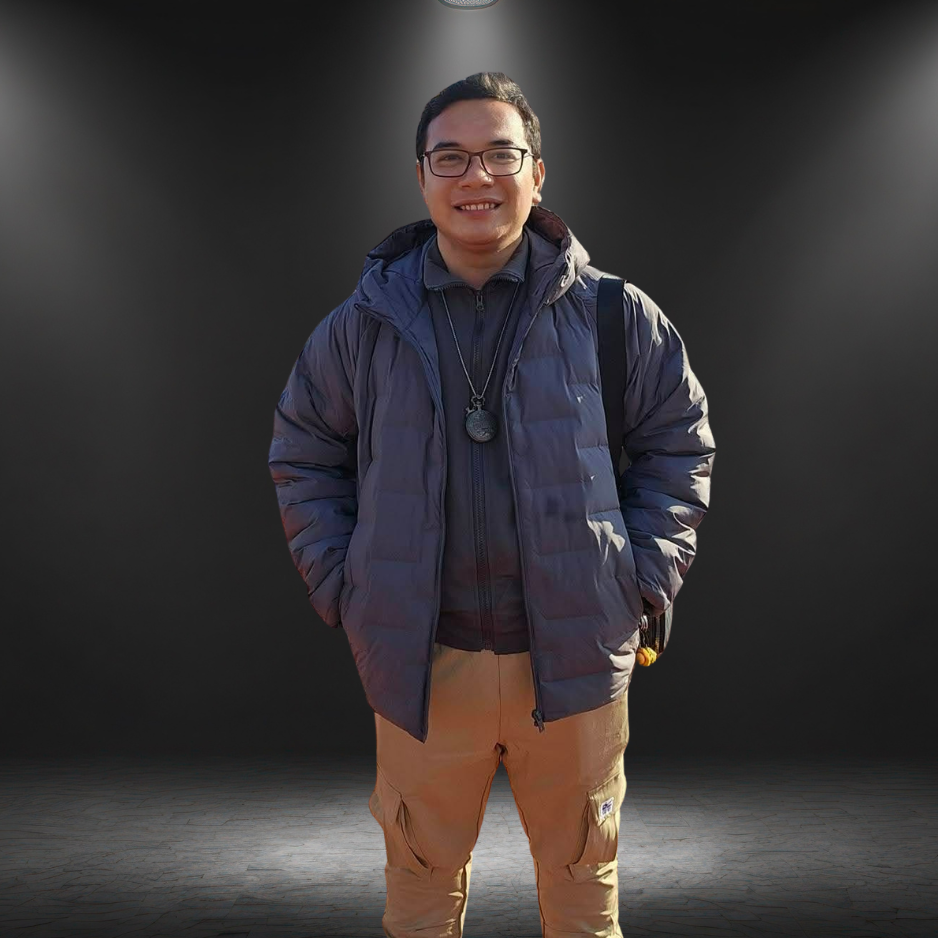
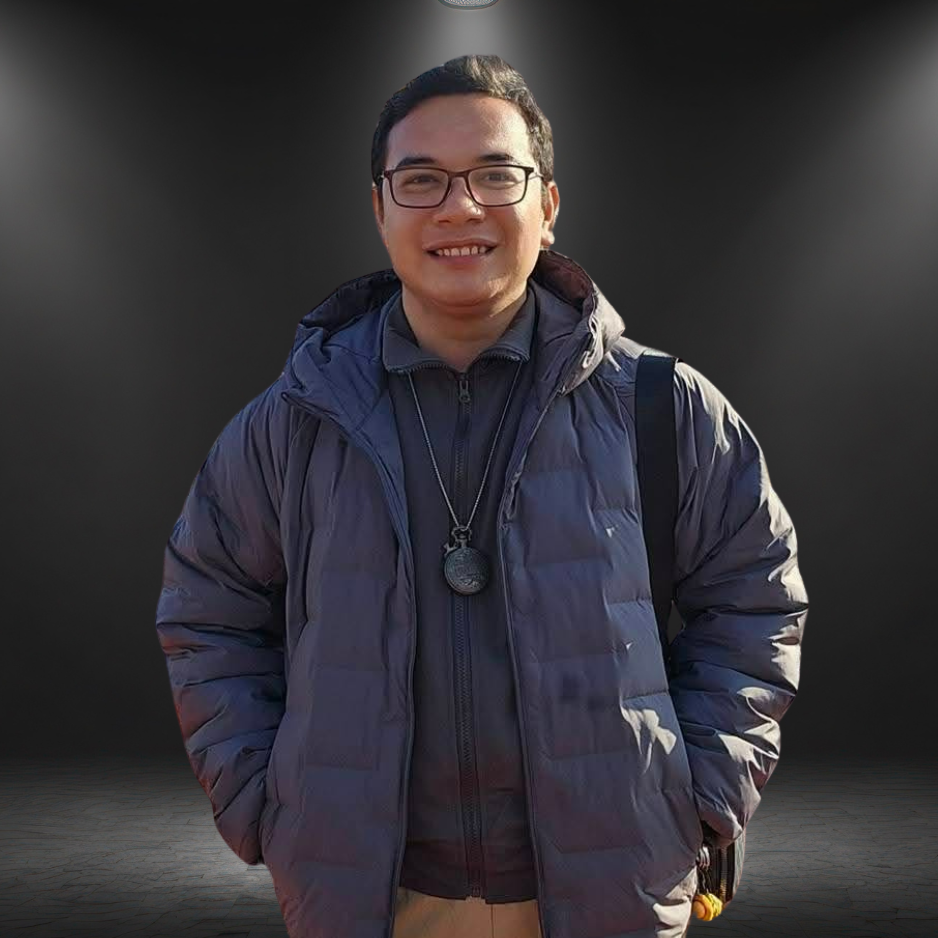
pic update

Changed region(s): [[0.1546, 0.0618, 0.8657, 1.0]]

diff --git a/nuptials.html b/nuptials.html
@@ -325,7 +325,7 @@
                             </p>
                         </div>
                         <div class="person-card" style="padding: 2rem;">
-                            <img src="images/image34.jpg" alt="Parents of the Groom">
+                            <img src="pictures/tata.png" alt="Parents of the Groom">
                             <h4>Mr. & Mrs. Gregorio</h4>
                             <p>Parents of the Groom</p>
                             <pp style="margin-top: 1rem; font-size: 0.9rem; color: var(--gray-dark);">